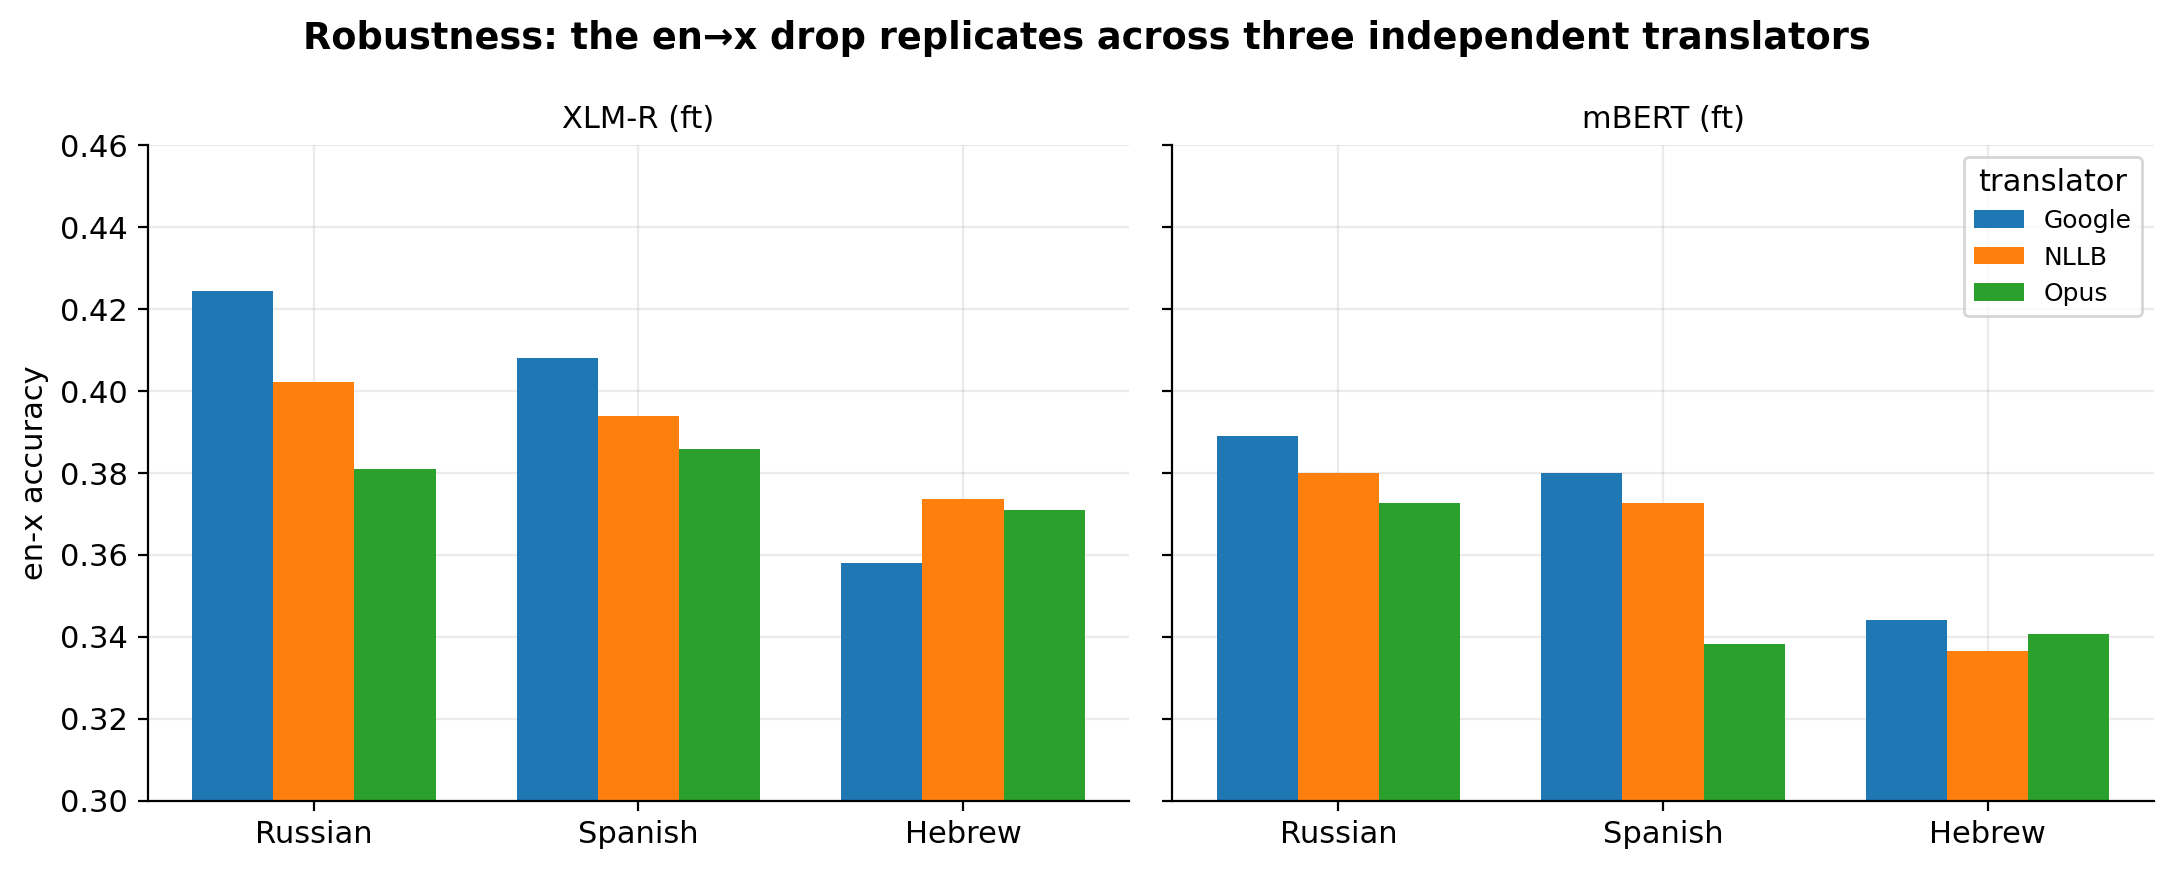
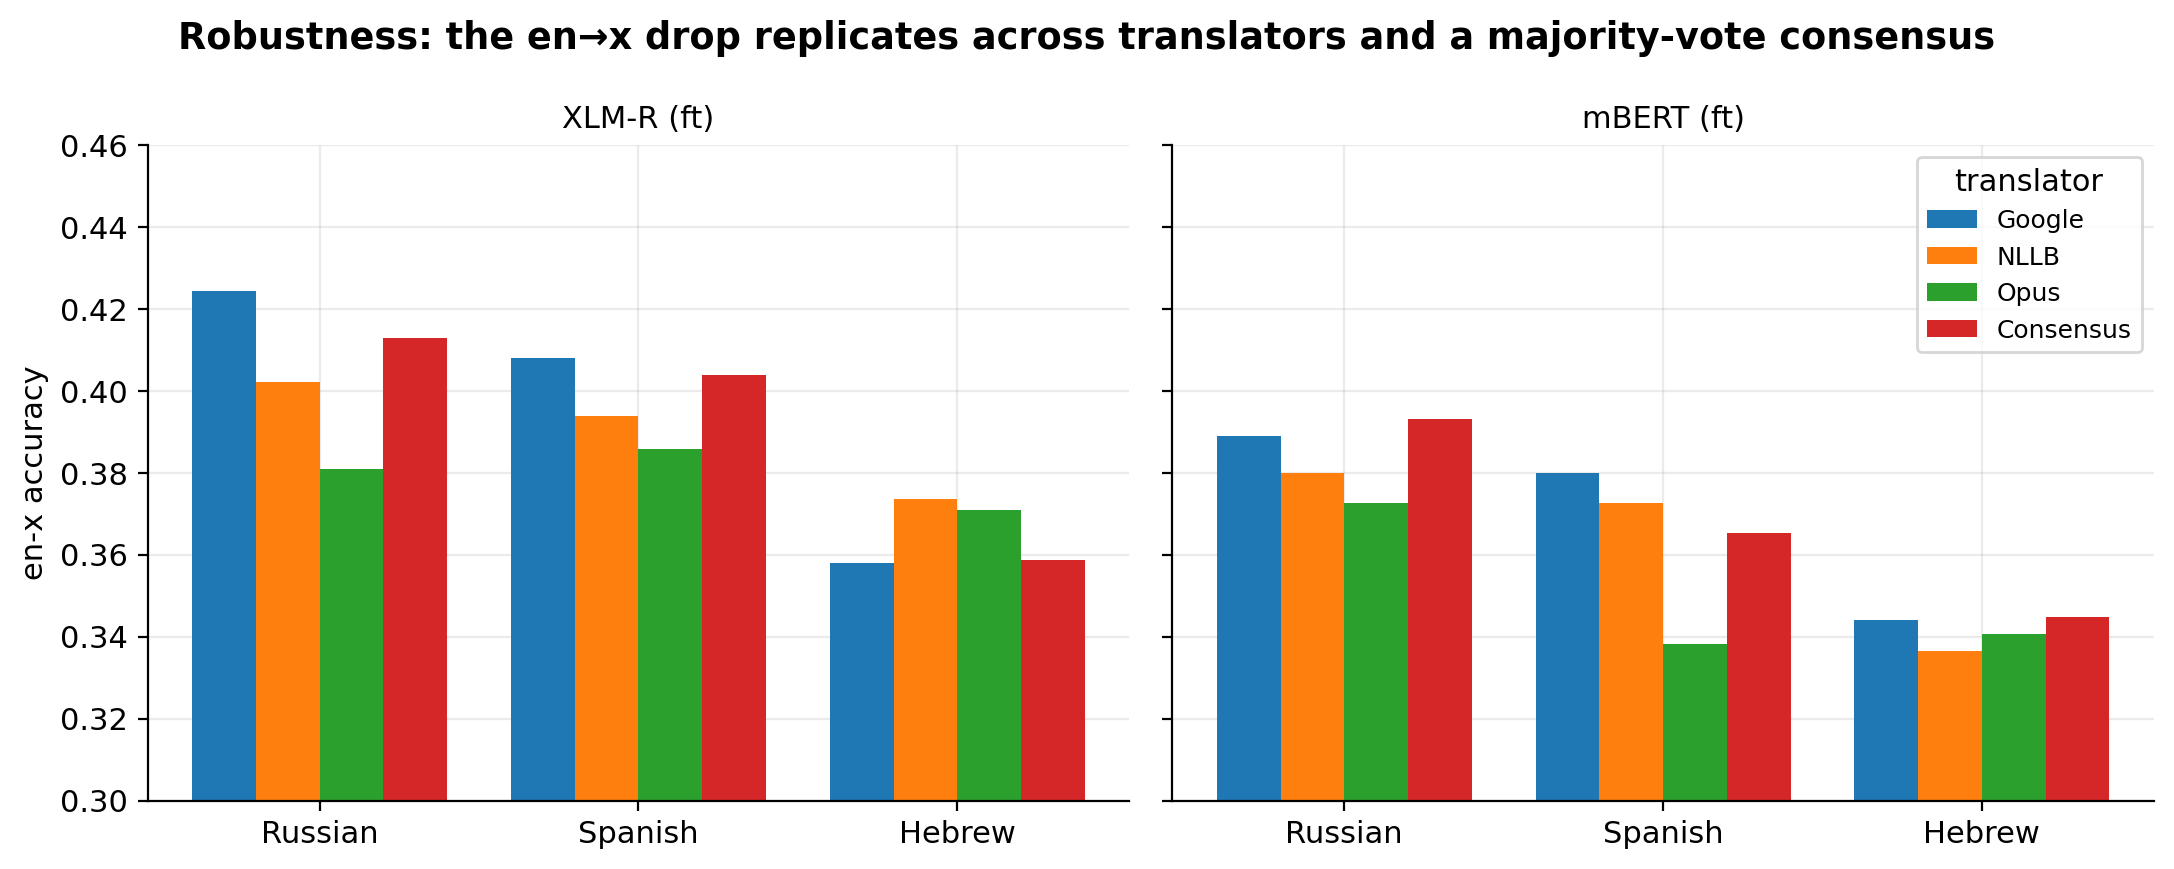
translation: add majority-vote consensus set (Google breaks ties)
scripts/build_consensus.py merges the Google/NLLB/Opus choice translations per
cell: take the value >=2 systems agree on (normalized), else Google breaks the
tie. Ties broken on ru 26.5% / es 16.2% / he 23.8% of choices; the rest carry a
2-of-3 (or unanimous) majority. Writes data/translated/consensus/ + the
en-x__<lang>-consensus variants; configs/consensus.yaml evaluates them.

Encoder accuracy on consensus tracks Google closely (xlmr-ep6 ru 0.413 / es 0.404
/ he 0.359) — the en->x degradation is unchanged under a best-of-3 consensus,
reinforcing translator-invariance. Report fig7 + translation section updated to
include the consensus column; summary.csv/flips.csv refreshed.

diff --git a/scripts/build_consensus.py b/scripts/build_consensus.py
@@ -1,0 +1,114 @@
+"""Build a CONSENSUS choice-translation set by majority vote across MT systems.
+
+For each answer choice we have three independent translations — Google, NLLB,
+Opus. The consensus rule per choice:
+  * if >=2 systems agree (on the normalized string), take that majority value;
+  * otherwise (all three differ, or only Google is available) **Google breaks
+    the tie** — it is the curated/strongest backend and the experiment's default.
+
+Agreement is decided on the *normalized* string (NFC, casefold, niqqud/article
+strip — the same normalizer as scripts.translation_agreement), but the emitted
+surface form is a real translation: when a majority exists we prefer Google's
+surface if Google is in the majority, else NLLB's, else Opus's.
+
+Writes, per target language:
+  data/translated/consensus/choices_<lang>.json     # merged choices
+  data/variants/en-x__<lang>-consensus.json           # eval variant (language="<lang>-consensus")
+
+Evaluate it like any other source, e.g.:
+  python -m scripts.run_eval --arm xlmr  --ckpt checkpoints/xlmr-csqa-epoch6  --model-tag xlmr-ep6  --config configs/consensus.yaml
+  python -m scripts.run_eval --arm mbert --ckpt checkpoints/mbert-csqa-epoch6 --model-tag mbert-ep6 --config configs/consensus.yaml
+  python -m scripts.analyze
+
+Usage:  python -m scripts.build_consensus
+"""
+
+from __future__ import annotations
+
+import json
+from dataclasses import asdict
+from pathlib import Path
+
+from csqa_xlang.data import CSQAItem
+from csqa_xlang.variants import build_variant, write_variant
+from scripts.translation_agreement import normalize
+
+LANGS = ["ru", "es", "he"]
+SOURCES = {  # priority order matters for surface selection + tie-break
+    "google": "data/translated/choices_{lang}.json",
+    "nllb": "data/translated/nllb/choices_{lang}.json",
+    "opus": "data/translated/opus/choices_{lang}.json",
+}
+
+
+def _load(path: Path) -> dict[str, dict]:
+    return {r["id"]: r for r in json.loads(path.read_text(encoding="utf-8"))}
+
+
+def _vote(cands: list[tuple[str, str]], lang: str) -> tuple[str, str]:
+    """cands = [(source, surface), ...] in priority order (google first).
+
+    Returns (chosen_surface, rule) where rule in {unanimous, majority, google-tiebreak}.
+    """
+    if len(cands) == 1:
+        return cands[0][1], "google-tiebreak"
+    norms = [(src, surf, normalize(surf, lang)) for src, surf in cands]
+    counts: dict[str, int] = {}
+    for _, _, nv in norms:
+        counts[nv] = counts.get(nv, 0) + 1
+    best_nv, best_c = max(counts.items(), key=lambda kv: kv[1])
+    if best_c >= 2:
+        # surface from the highest-priority source whose normalized == majority
+        surf = next(surf for _, surf, nv in norms if nv == best_nv)
+        return surf, ("unanimous" if best_c == len(norms) else "majority")
+    # all distinct -> Google (first in priority order) breaks the tie
+    return cands[0][1], "google-tiebreak"
+
+
+def main() -> None:
+    out_root = Path("data/translated/consensus")
+    out_root.mkdir(parents=True, exist_ok=True)
+    vdir = Path("data/variants")
+
+    for lang in LANGS:
+        loaded = {name: _load(Path(tmpl.format(lang=lang)))
+                  for name, tmpl in SOURCES.items() if Path(tmpl.format(lang=lang)).exists()}
+        if "google" not in loaded:
+            print(f"[{lang}] no Google source — skipping")
+            continue
+        ids = list(loaded["google"])
+        rule_counts = {"unanimous": 0, "majority": 0, "google-tiebreak": 0}
+        n_cells = 0
+        items: list[CSQAItem] = []
+        for cid in ids:
+            base = loaded["google"][cid]
+            merged = dict(base["choices"])  # start from Google
+            for lab in base["choices"]:
+                cands = []
+                for name in SOURCES:  # google, nllb, opus order
+                    row = loaded.get(name, {}).get(cid)
+                    if row and lab in row["choices"]:
+                        cands.append((name, row["choices"][lab]))
+                surf, rule = _vote(cands, lang)
+                merged[lab] = surf
+                rule_counts[rule] += 1
+                n_cells += 1
+            items.append(CSQAItem(id=cid, question=base["question"],
+                                  choices=merged, answer_key=base.get("answer_key")))
+
+        # write merged choices + the eval variant
+        (out_root / f"choices_{lang}.json").write_text(
+            json.dumps([asdict(it) for it in items], ensure_ascii=False, indent=2),
+            encoding="utf-8")
+        v = build_variant("en-x", f"{lang}-consensus", items, choice_x=items)
+        write_variant(v, vdir / f"en-x__{lang}-consensus.json")
+
+        tot = n_cells or 1
+        print(f"[{lang}] {len(items)} items, {n_cells} choices  "
+              f"unanimous {rule_counts['unanimous']} ({rule_counts['unanimous']/tot:.1%}) | "
+              f"majority {rule_counts['majority']} ({rule_counts['majority']/tot:.1%}) | "
+              f"google-tiebreak {rule_counts['google-tiebreak']} ({rule_counts['google-tiebreak']/tot:.1%})")
+
+
+if __name__ == "__main__":
+    main()

diff --git a/report/build_report.py b/report/build_report.py
@@ -274,12 +274,12 @@ def fig_heatmap(summary, models):
 def fig_sources(summary):
     """Translator robustness: xlmr-ep6 / mbert-ep6 accuracy across Google/NLLB/Opus."""
     pairs = [("xlmr-ep6", "XLM-R (ft)"), ("mbert-ep6", "mBERT (ft)")]
-    srcs = [("", "Google"), ("-nllb", "NLLB"), ("-opus", "Opus")]
+    srcs = [("", "Google"), ("-nllb", "NLLB"), ("-opus", "Opus"), ("-consensus", "Consensus")]
     fig, axes = plt.subplots(1, 2, figsize=(11, 4.4), sharey=True)
     ok = False
     for ax, (mdl, name) in zip(axes, pairs):
         x = range(len(LANGS))
-        w = 0.25
+        w = 0.2
         for j, (suf, sname) in enumerate(srcs):
             vals = []
             for lang in LANGS:
@@ -287,14 +287,14 @@ def fig_sources(summary):
                 vals.append(float(r.accuracy.iloc[0]) if len(r) else 0)
             if any(vals):
                 ok = True
-            ax.bar([xi + (j - 1) * w for xi in x], vals, w, label=sname)
+            ax.bar([xi + (j - 1.5) * w for xi in x], vals, w, label=sname)
         ax.set_xticks(list(x))
         ax.set_xticklabels([LANG_NAME[l] for l in LANGS])
         ax.set_title(name, fontsize=11)
         ax.set_ylim(0.30, 0.46)
     axes[0].set_ylabel("en-x accuracy")
     axes[-1].legend(title="translator", fontsize=9)
-    fig.suptitle("Robustness: the en→x drop replicates across three independent translators",
+    fig.suptitle("Robustness: the en→x drop replicates across translators and a majority-vote consensus",
                  weight="bold")
     if ok:
         savefig(fig, "fig7_translation_sources.png")
@@ -595,13 +595,14 @@ choices/lang):
 
 Three independent MT systems (Google / NLLB / Opus) agree on the exact word only
 **35–48%** of the time — the translations are genuinely diverse. Yet model accuracy
-is stable across them:
+is stable across them, and across a **majority-vote consensus** set (≥2 of 3 agree,
+else Google breaks the tie; ties broken on 16–27% of choices):
 
 {"![sources](figures/fig7_translation_sources.png)" if has_sources else "_(translation-source runs not present)_"}
 
-The degradation ordering is **translator-invariant**: every MT system produces the
-same pattern for the encoders, so the effect is not an artifact of one translation
-backend — it separates concept-grounding from MT noise.
+The degradation ordering is **translator-invariant**: Google, NLLB, Opus and the
+consensus set all produce the same pattern for the encoders, so the effect is not an
+artifact of one translation backend — it separates concept-grounding from MT noise.
 
 ## 5. Training dynamics (encoders)
 

diff --git a/report/README.md b/report/README.md
@@ -105,13 +105,14 @@ choices/lang):
 
 Three independent MT systems (Google / NLLB / Opus) agree on the exact word only
 **35–48%** of the time — the translations are genuinely diverse. Yet model accuracy
-is stable across them:
+is stable across them, and across a **majority-vote consensus** set (≥2 of 3 agree,
+else Google breaks the tie; ties broken on 16–27% of choices):
 
 ![sources](figures/fig7_translation_sources.png)
 
-The degradation ordering is **translator-invariant**: every MT system produces the
-same pattern for the encoders, so the effect is not an artifact of one translation
-backend — it separates concept-grounding from MT noise.
+The degradation ordering is **translator-invariant**: Google, NLLB, Opus and the
+consensus set all produce the same pattern for the encoders, so the effect is not an
+artifact of one translation backend — it separates concept-grounding from MT noise.
 
 ## 5. Training dynamics (encoders)
 